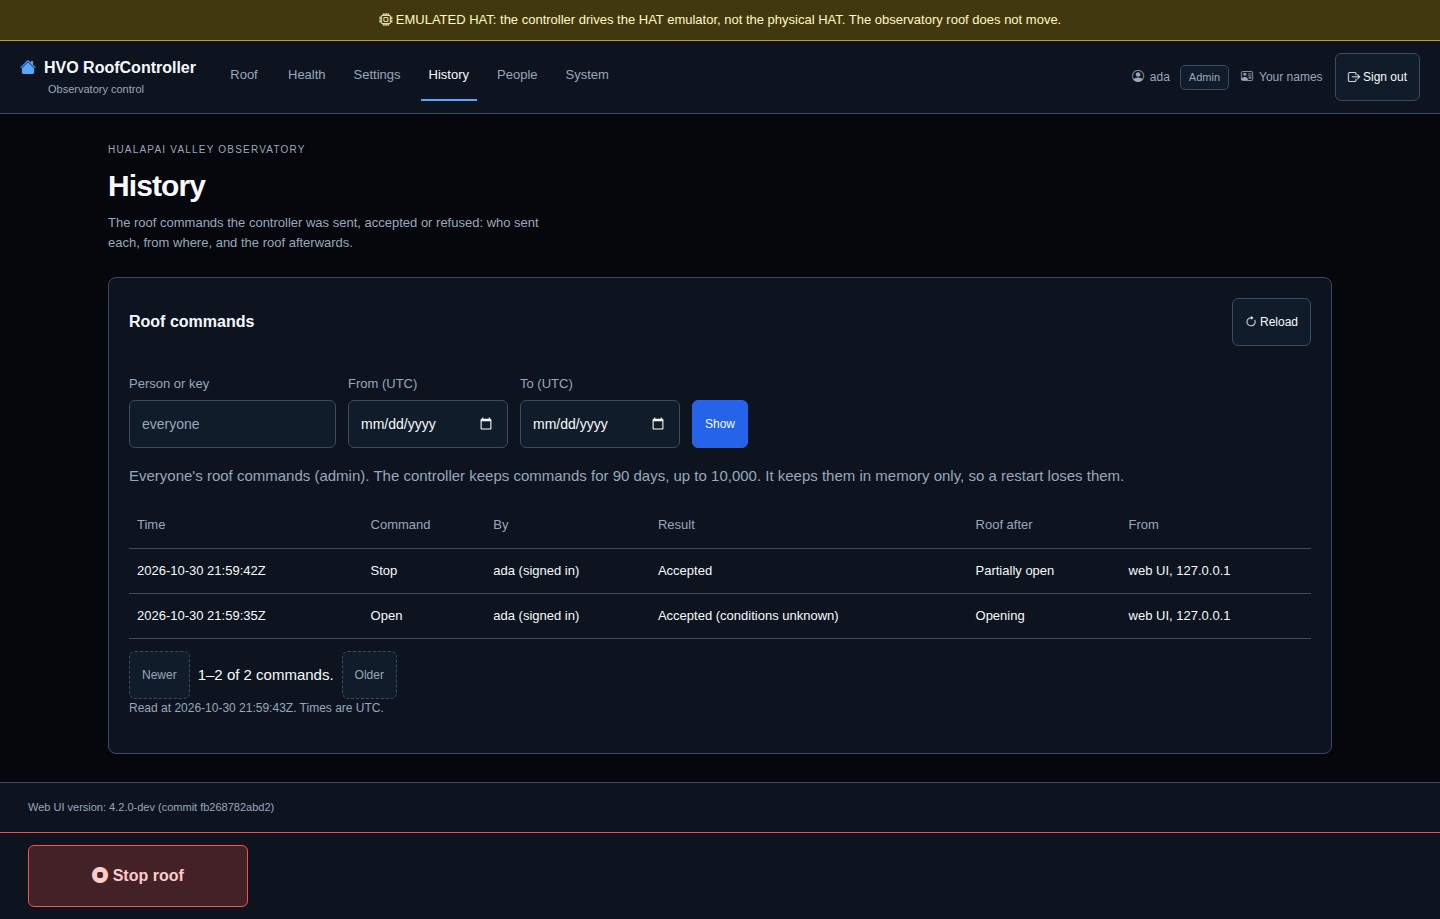
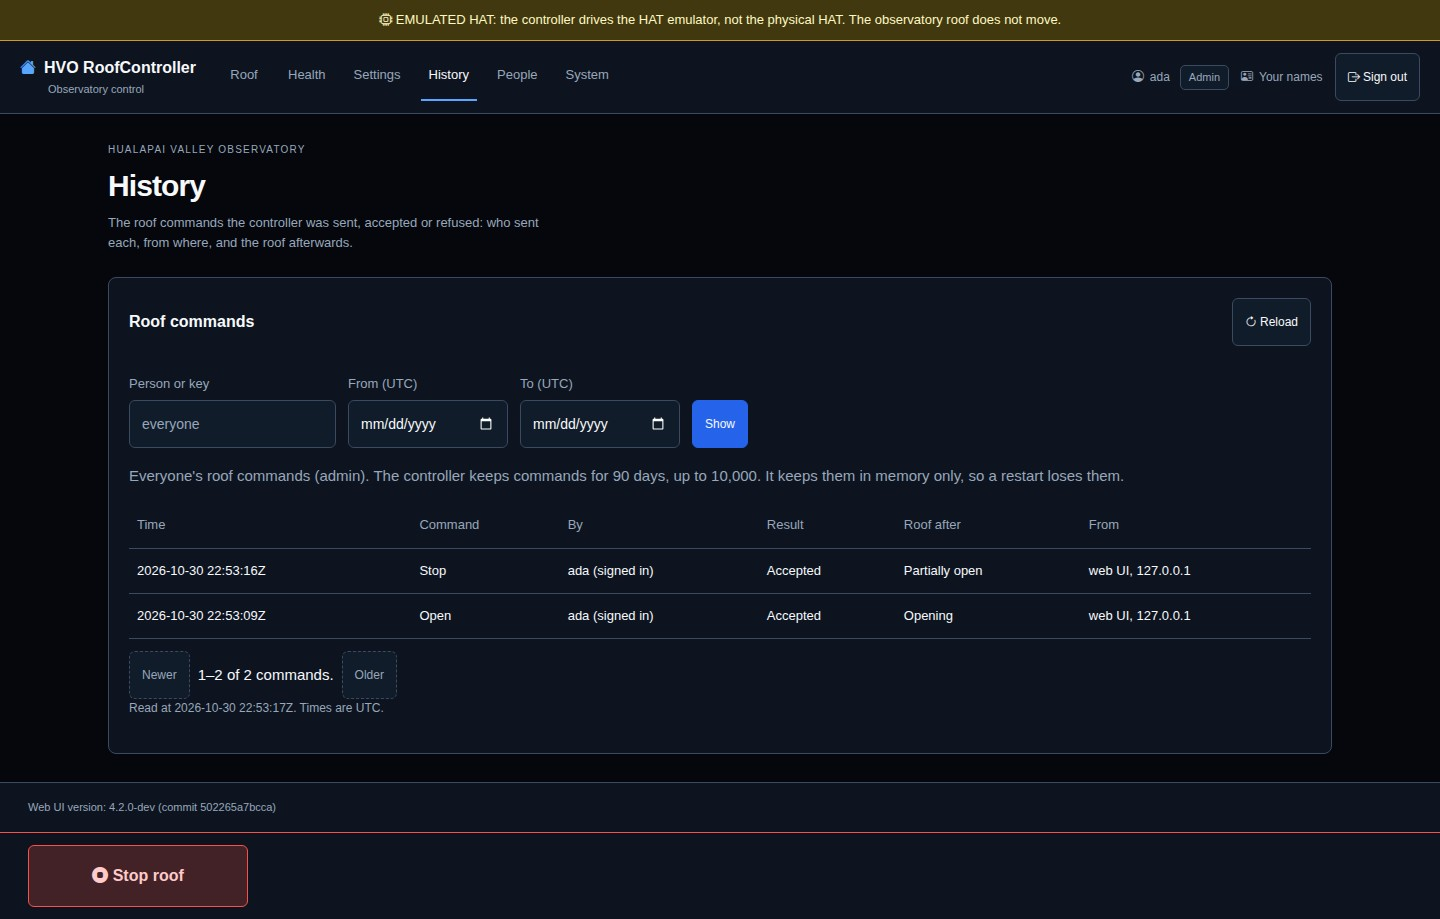
fix: omit the safety note on an Open accepted with the interlock Off and no sources
With RoofSafety:InterlockMode Off and no safety source configured, the
conditions are always Unknown, so every Open was recorded as "Accepted
(conditions unknown)", which says nothing. RoofSafetyOpenDecision now
decides what the command history notes (HistorySafetyState): no note for
an Open the controller accepted in that setup; Unsafe in any mode,
Unknown in Warn or Block or from a configured source, every override and
every refusal keep it. DoRoofOpen notes it once the controller answers.

Tests cover the whole matrix (storage and wording), the API end to end
with simulated sources (unsafe, unreadable, stale) and a controller
refusal, the web page and the CLI. Docs, the CHANGELOG entry and the
web History screenshot follow.

Closes #216
Part of #210

diff --git a/tests/HVO.RoofControllerV4.RPi.Tests/Controllers/RoofHistoryApiTests.cs b/tests/HVO.RoofControllerV4.RPi.Tests/Controllers/RoofHistoryApiTests.cs
@@ -4,10 +4,12 @@ using FluentAssertions;
 using HVO.Core.Results;
 using HVO.RoofControllerV4.Client;
 using HVO.RoofControllerV4.Common.Models;
+using HVO.RoofControllerV4.Common.Safety;
 using HVO.RoofControllerV4.RPi.Logic;
 using HVO.RoofControllerV4.RPi.Storage;
 using HVO.RoofControllerV4.RPi.Tests.Client;
 using HVO.RoofControllerV4.RPi.Tests.Security;
+using HVO.RoofControllerV4.Simulation.Safety;
 using HVO.RoofControllerV4.Web.Sessions;
 using Microsoft.Extensions.DependencyInjection;
 using Moq;
@@ -390,14 +392,60 @@ public sealed class RoofHistoryApiTests
             refused.SafetyOverride.Should().BeNull("Block takes no override");
         }
 
-        using var advising = RoofClientApiTests.CreateHost();
+        // A source that says unsafe: the interlock only advises, and the entry says what it found.
+        var mount = new SimulatedTelescopeParkSource("Main", isParked: false);
+        using var advising = RoofClientApiTests.CreateHost(configureServices: services => services.AddSingleton<ITelescopeParkSource>(mount));
         using var operatorClient = CreateClient(advising, new RoofApiKeyCredential(TestApiKeys.Operator));
+        await WaitUntilAsync(() => operatorClient.Roof.GetSafetyAsync().GetAwaiter().GetResult().State == RoofSafetyState.Unsafe, "the mount to be read");
         await operatorClient.Roof.OpenAsync();
 
         var accepted = (await operatorClient.Roof.GetHistoryAsync()).Entries.Single();
         accepted.Accepted.Should().BeTrue("the interlock is off by default");
-        accepted.SafetyState.Should().Be("Unknown");
+        accepted.SafetyState.Should().Be("Unsafe");
         accepted.SafetyOverride.Should().BeNull();
+        RoofHistoryText.DescribeResult(accepted).Should().Be("Accepted (conditions unsafe)");
+    }
+
+    [TestMethod]
+    public async Task AnOpenAcceptedWhileNothingWatchesTheConditions_HasNoSafetyNote_ButARefusalKeepsIt()
+    {
+        // The interlock Off (the default) and no safety source: the conditions are always Unknown, which says nothing (#216).
+        using var host = RoofClientApiTests.CreateHost();
+        using var operatorClient = CreateClient(host, new RoofApiKeyCredential(TestApiKeys.Operator));
+        (await operatorClient.Roof.GetSafetyAsync()).Should().Match<RoofSafetyStatus>(safety =>
+            safety.State == RoofSafetyState.Unknown && safety.InterlockMode == RoofSafetyInterlockMode.Off && safety.Sources.Count == 0);
+
+        await operatorClient.Roof.OpenAsync();
+        host.RoofService.Setup(service => service.Open()).Returns(Result<RoofControllerStatus>.Failure(
+            new RoofControllerException(RoofControllerErrorCode.FaultLatched, "A fault is latched (test).")));
+        await RoofClientApiTests.RefusedAsync(() => operatorClient.Roof.OpenAsync());
+
+        var entries = (await operatorClient.Roof.GetHistoryAsync()).Entries;
+        entries.Select(entry => (entry.Accepted, entry.Code, entry.SafetyState, entry.SafetyOverride)).Should().Equal(
+            (false, nameof(RoofControllerErrorCode.FaultLatched), "Unknown", null),
+            (true, null, null, null));
+        RoofHistoryText.DescribeResult(entries[0]).Should().Be("Refused [FaultLatched]");
+        RoofHistoryText.DescribeResult(entries[1]).Should().Be("Accepted");
+    }
+
+    [TestMethod]
+    [DataRow(SimulatedSourceBehaviour.Fails, false, "cannot be read")]
+    [DataRow(SimulatedSourceBehaviour.Answers, true, "is older than")]
+    public async Task AnOpenAcceptedWhileAConfiguredSourceIsUnknown_SaysSo(SimulatedSourceBehaviour behaviour, bool stale, string reason)
+    {
+        // The interlock Off, but a source is configured: one that cannot be read, or whose last reading is too old.
+        var weather = new SimulatedWeatherSafetySource("Cloud") { Behaviour = behaviour, ObservedUtc = stale ? DateTimeOffset.UtcNow.AddHours(-1) : null };
+        using var host = RoofClientApiTests.CreateHost(configureServices: services => services.AddSingleton<IWeatherSafetySource>(weather));
+        using var operatorClient = CreateClient(host, new RoofApiKeyCredential(TestApiKeys.Operator));
+        await WaitUntilAsync(
+            () => operatorClient.Roof.GetSafetyAsync().GetAwaiter().GetResult().Sources.Single().Reason.Contains(reason, StringComparison.Ordinal),
+            "the weather monitor to be read");
+
+        await operatorClient.Roof.OpenAsync();
+
+        var accepted = (await operatorClient.Roof.GetHistoryAsync()).Entries.Single();
+        accepted.SafetyState.Should().Be("Unknown");
+        RoofHistoryText.DescribeResult(accepted).Should().Be("Accepted (conditions unknown)");
     }
 
     private static async Task<RoofControllerClient> SignedInAsync(RoofApiTestHost host, string name)

diff --git a/tests/HVO.RoofControllerV4.RPi.Tests/Storage/RoofCommandHistoryTests.cs b/tests/HVO.RoofControllerV4.RPi.Tests/Storage/RoofCommandHistoryTests.cs
@@ -2,7 +2,9 @@ using System.Net;
 using System.Security.Claims;
 using System.Text.Json;
 using FluentAssertions;
+using HVO.RoofControllerV4.Client;
 using HVO.RoofControllerV4.Common.Models;
+using HVO.RoofControllerV4.RPi.Safety;
 using HVO.RoofControllerV4.RPi.Security;
 using HVO.RoofControllerV4.RPi.Security.Identity;
 using HVO.RoofControllerV4.RPi.Storage;
@@ -425,6 +427,43 @@ public sealed class RoofCommandHistoryTests
         history.Describe(safe, RoofHistoryCommand.Open, null, null).Should().Match<RoofCommandHistoryEntry>(entry =>
             entry.SafetyState == null && entry.SafetyOverride == null);
         history.Describe(Context(user, IPAddress.Loopback, null), RoofHistoryCommand.Close, null, null).SafetyState.Should().BeNull();
+    }
+
+    [TestMethod]
+    // Nothing watches the conditions (the interlock Off, no source): an accepted Open has no note (#216); a refusal keeps it.
+    [DataRow(RoofSafetyInterlockMode.Off, RoofSafetyState.Unknown, false, false, true, null, "Accepted")]
+    [DataRow(RoofSafetyInterlockMode.Off, RoofSafetyState.Unknown, false, false, false, "Unknown", "Refused [FaultLatched]")]
+    // A configured source that cannot be read or is stale, an unsafe one, in any mode.
+    [DataRow(RoofSafetyInterlockMode.Off, RoofSafetyState.Unknown, true, false, true, "Unknown", "Accepted (conditions unknown)")]
+    [DataRow(RoofSafetyInterlockMode.Off, RoofSafetyState.Unsafe, true, false, true, "Unsafe", "Accepted (conditions unsafe)")]
+    [DataRow(RoofSafetyInterlockMode.Warn, RoofSafetyState.Unsafe, true, true, true, "Unsafe", "Accepted (safety override, conditions unsafe)")]
+    [DataRow(RoofSafetyInterlockMode.Block, RoofSafetyState.Unsafe, true, false, false, "Unsafe", "Refused [FaultLatched]")]
+    // Unknown in Warn or Block, with no source: an override, and a refusal, keep it.
+    [DataRow(RoofSafetyInterlockMode.Warn, RoofSafetyState.Unknown, false, true, true, "Unknown", "Accepted (safety override, conditions unknown)")]
+    [DataRow(RoofSafetyInterlockMode.Warn, RoofSafetyState.Unknown, false, false, false, "Unknown", "Refused [FaultLatched]")]
+    [DataRow(RoofSafetyInterlockMode.Block, RoofSafetyState.Unknown, false, false, false, "Unknown", "Refused [FaultLatched]")]
+    // Safe: never a note.
+    [DataRow(RoofSafetyInterlockMode.Off, RoofSafetyState.Safe, true, false, true, null, "Accepted")]
+    [DataRow(RoofSafetyInterlockMode.Warn, RoofSafetyState.Safe, true, false, true, null, "Accepted")]
+    public void AnOpensEntry_NotesTheConditions_UnlessNothingWatchesThem(
+        RoofSafetyInterlockMode mode, RoofSafetyState state, bool sourceConfigured, bool overridden, bool accepted, string? expected, string result)
+    {
+        using var history = Create(new ManualTimeProvider(Start));
+        var refusal = new ProblemDetails { Detail = "A fault is latched." };
+        refusal.Extensions[RoofControllerApiContract.ProblemCodeExtension] = nameof(RoofControllerErrorCode.FaultLatched);
+        var decision = new RoofSafetyOpenDecision(null, "ada", new RoofSafetyStatus
+        {
+            State = state,
+            InterlockMode = mode,
+            Sources = sourceConfigured ? [new RoofSafetySourceStatus { Name = "Main", Kind = RoofSafetySourceKind.TelescopePark, State = state }] : []
+        }, overridden);
+        var context = Context(Session("ada", RoofCredentialKind.Session, RoofControllerApiContract.OperatorRole), IPAddress.Loopback, null);
+
+        RoofCommandHistory.NoteSafety(context, decision.HistorySafetyState(accepted), decision.Overridden);
+        var entry = history.Describe(context, RoofHistoryCommand.Open, accepted ? Snapshot(RoofControllerStatus.Opening) : null, accepted ? null : refusal);
+
+        entry.SafetyState.Should().Be(expected);
+        RoofHistoryText.DescribeResult(entry).Should().Be(result);
     }
 
     [TestMethod]

diff --git a/src/HVO.RoofControllerV4.RPi/Controllers/RoofController.cs b/src/HVO.RoofControllerV4.RPi/Controllers/RoofController.cs
@@ -109,22 +109,23 @@ namespace HVO.RoofControllerV4.RPi.Controllers
         public async Task<ActionResult<RoofStatusResponse>> DoRoofOpen([FromQuery] bool overrideSafety = false)
         {
             var safety = await _safetyInterlock.CheckOpenAsync(User, HttpContext, overrideSafety).ConfigureAwait(false);
-
-            // The command history shows the conditions an Open was sent in when they were not Safe, and an override (#206).
-            RoofCommandHistory.NoteSafety(
-                HttpContext,
-                safety.Safety.State == RoofSafetyState.Safe ? null : safety.Safety.State.ToString(),
-                safety.Overridden);
             return RunCommand("open", () =>
             {
+                Result<RoofControllerStatus> result;
                 if (safety.Refusal is { } refusal)
                 {
-                    return Result<RoofControllerStatus>.Failure(refusal);
+                    result = Result<RoofControllerStatus>.Failure(refusal);
+                }
+                else
+                {
+                    // An override is audited only once the controller's own checks have accepted Open.
+                    result = _roofController.Open();
+                    _safetyInterlock.ReportOutcome(safety, result.IsSuccessful ? null : result.Error);
                 }
 
-                // An override is audited only once the controller's own checks have accepted Open.
-                var result = _roofController.Open();
-                _safetyInterlock.ReportOutcome(safety, result.IsSuccessful ? null : result.Error);
+                // The command history shows the conditions an Open was sent in when they were not Safe, and an override
+                // (#206); not the Unknown of an Open accepted while nothing watches the conditions (#216).
+                RoofCommandHistory.NoteSafety(HttpContext, safety.HistorySafetyState(result.IsSuccessful), safety.Overridden);
                 return result;
             });
         }

diff --git a/src/HVO.RoofControllerV4.RPi/Safety/RoofSafetyInterlock.cs b/src/HVO.RoofControllerV4.RPi/Safety/RoofSafetyInterlock.cs
@@ -12,7 +12,22 @@ namespace HVO.RoofControllerV4.RPi.Safety;
 /// <param name="Caller">Who asked, as audit lines name them.</param>
 /// <param name="Safety">The safety conditions the decision was made on.</param>
 /// <param name="Overridden">True when Open goes on only because the caller overrode the conditions (Warn mode).</param>
-public sealed record RoofSafetyOpenDecision(RoofControllerException? Refusal, string Caller, RoofSafetyStatus Safety, bool Overridden);
+public sealed record RoofSafetyOpenDecision(RoofControllerException? Refusal, string Caller, RoofSafetyStatus Safety, bool Overridden)
+{
+    /// <summary>
+    /// The conditions the command history (#206) notes for this Open: the state when it was not Safe, null when it was.
+    /// Null as well for an Open the controller accepted while nothing watches the conditions (the interlock Off, no
+    /// safety source configured, no override), whose Unknown says nothing (#216). Unsafe, Unknown in another mode or from
+    /// a configured source, an override and every refusal keep the state.
+    /// </summary>
+    /// <param name="accepted">True when the controller accepted Open.</param>
+    public string? HistorySafetyState(bool accepted)
+        => Safety.State == RoofSafetyState.Safe
+            || (accepted && !Overridden
+                && Safety is { State: RoofSafetyState.Unknown, InterlockMode: RoofSafetyInterlockMode.Off, Sources.Count: 0 })
+            ? null
+            : Safety.State.ToString();
+}
 
 /// <summary>
 /// The safety conditions' part in Open (<see cref="RoofSafetyOptions.InterlockMode"/>): Off reports and logs, Warn

diff --git a/tests/HVO.RoofControllerV4.RPi.Tests/Client/RoofHistoryClientTests.cs b/tests/HVO.RoofControllerV4.RPi.Tests/Client/RoofHistoryClientTests.cs
@@ -102,8 +102,12 @@ public sealed class RoofHistoryClientTests
         RoofHistoryText.DescribeResult(Entry()).Should().Be("Accepted");
         RoofHistoryText.DescribeResult(Entry() with { Accepted = false, Code = "FaultLatched" }).Should().Be("Refused [FaultLatched]");
         RoofHistoryText.DescribeResult(Entry() with { Accepted = false }).Should().Be("Refused");
+        // An Open with no safety note (Safe, or nothing watches the conditions: #216) is plain Accepted, as above.
         RoofHistoryText.DescribeResult(Entry() with { SafetyState = "Unsafe", SafetyOverride = true }).Should().Be("Accepted (safety override, conditions unsafe)");
+        RoofHistoryText.DescribeResult(Entry() with { SafetyState = "Unknown", SafetyOverride = true }).Should().Be("Accepted (safety override, conditions unknown)");
+        RoofHistoryText.DescribeResult(Entry() with { SafetyState = "Unsafe" }).Should().Be("Accepted (conditions unsafe)");
         RoofHistoryText.DescribeResult(Entry() with { SafetyState = "Unknown" }).Should().Be("Accepted (conditions unknown)");
+        RoofHistoryText.DescribeResult(Entry() with { Accepted = false, Code = "FaultLatched", SafetyState = "Unknown" }).Should().Be("Refused [FaultLatched]");
         RoofHistoryText.DescribeResult(Entry() with { Accepted = false, Code = "SafetyOverrideRequired", SafetyState = "Unsafe" })
             .Should().Be("Refused [SafetyOverrideRequired]");
         RoofHistoryText.DescribeOutcome(Entry()).Should().Be("Opening");

diff --git a/tests/HVO.RoofControllerV4.RPi.Tests/Cli/RoofCliHistoryCommandTests.cs b/tests/HVO.RoofControllerV4.RPi.Tests/Cli/RoofCliHistoryCommandTests.cs
@@ -30,7 +30,7 @@ public sealed class RoofCliHistoryCommandTests
         lines[0].Should().Be("Everyone's roof commands (admin).");
         lines[1].Should().MatchRegex("^TIME +COMMAND +BY +RESULT +ROOF AFTER +FROM$");
         lines[2].Should().MatchRegex(@"^\d{4}-\d\d-\d\d \d\d:\d\d:\d\dZ +Stop +test-viewer \(API key\) +Accepted +Closed +");
-        lines[3].Should().MatchRegex(@"Open +test-operator \(API key\) +Accepted \(conditions unknown\) +Closed +", "no safety source is configured, so the conditions are not known");
+        lines[3].Should().MatchRegex(@"Open +test-operator \(API key\) +Accepted +Closed +", "with the interlock off and no safety source, the conditions are not noted (#216)");
         lines[4].Should().Be("1–2 of 2 commands.");
         lines[5].Should().Be("The controller keeps commands for 90 days, up to 10,000. It keeps them in memory only, so a restart loses them.");
     }

diff --git a/src/HVO.RoofControllerV4.RPi/Storage/RoofCommandHistory.cs b/src/HVO.RoofControllerV4.RPi/Storage/RoofCommandHistory.cs
@@ -501,8 +501,10 @@ public sealed class RoofCommandHistory : BackgroundService
 
     /// <summary>
     /// Notes on <paramref name="context"/> what the safety interlock (#207) decided for an Open, for the entry
-    /// <see cref="Describe"/> makes of it: the conditions when they were not Safe (null when they were), and whether the
-    /// caller overrode them. An override is recorded only on an Open the controller then accepted.
+    /// <see cref="Describe"/> makes of it: the conditions to record
+    /// (<see cref="HVO.RoofControllerV4.RPi.Safety.RoofSafetyOpenDecision.HistorySafetyState"/>: null when they were Safe,
+    /// or nothing watches them), and whether the caller overrode them. An override is recorded only on an Open the
+    /// controller then accepted.
     /// </summary>
     public static void NoteSafety(HttpContext context, string? notSafeState, bool overridden)
     {

diff --git a/src/HVO.RoofControllerV4.Common/Models/RoofCommandHistoryContract.cs b/src/HVO.RoofControllerV4.Common/Models/RoofCommandHistoryContract.cs
@@ -123,7 +123,8 @@ public sealed record RoofCommandHistoryEntry
 
     /// <summary>
     /// For an Open sent while the observatory's safety conditions (#207) were not Safe: what the safety interlock found
-    /// them to be (for example <c>Unsafe</c> or <c>Unknown</c>); null otherwise, and for every other command.
+    /// them to be (for example <c>Unsafe</c> or <c>Unknown</c>); null otherwise, for an Open accepted while nothing
+    /// watches the conditions (the interlock Off and no safety source configured, #216), and for every other command.
     /// </summary>
     public string? SafetyState { get; init; }
 

diff --git a/tests/HVO.RoofControllerV4.RPi.Tests/Web/HistoryPageTests.cs b/tests/HVO.RoofControllerV4.RPi.Tests/Web/HistoryPageTests.cs
@@ -36,7 +36,7 @@ public sealed class HistoryPageTests
             new[]
             {
                 new[] { "2026-09-29 12:00:00Z", "Stop", "ada (signed in)", "Accepted", "Closed" },
-                new[] { "2026-09-29 12:00:00Z", "Open", "olive (signed in)", "Accepted (conditions unknown)", "Closed" }
+                new[] { "2026-09-29 12:00:00Z", "Open", "olive (signed in)", "Accepted", "Closed" }
             },
             options => options.WithStrictOrdering());
         cut.Find("[data-testid=history-range]").TextContent.Should().Be("1–2 of 2 commands.");

diff --git a/docs/security.md b/docs/security.md
@@ -455,8 +455,11 @@ session, the person an API key said it acted for (`X-On-Behalf-Of`, shown, never
 the request's `User-Agent` names (not verified; the client library sends `<program>/<version>`), the result with the
 refusal's code and explanation, and the roof's status, stop reason and fault latch afterwards. An Open sent while the
 observatory's safety conditions are not Safe also has them (`safetyState`), and `safetyOverride` when the controller
-accepted it only because the caller overrode them; an Open the safety interlock refused is a refusal with its code. A
-request refused before it reaches the roof (no credential, or a role too low) is not a command and is not recorded.
+accepted it only because the caller overrode them; an Open the safety interlock refused is a refusal with its code. An
+Open accepted while nothing watches the conditions (`RoofSafety:InterlockMode` `Off` and no safety source configured)
+has no `safetyState`: its Unknown says nothing (#216). Unsafe, Unknown from a configured source or in `Warn` or
+`Block`, an override and a refusal keep it. A request refused before it reaches the roof (no credential, or a role too
+low) is not a command and is not recorded.
 
 - **Identifiers, never names.** The history matches who sent a command by an identifier, never by a name alone:
   `principal:<id>` for a person the identity store gives a principal ID (schema 2 and later, and every Linux principal),

diff --git a/CHANGELOG.md b/CHANGELOG.md
@@ -17,8 +17,10 @@ and this project adheres to [Semantic Versioning](https://semver.org/).
   matched by an identifier (a person's principal ID, or their name and creation; a key's ID), never by a name alone.
   Stop is never limited; anonymous Stops from one source are one entry with a count, under a cap of their own. An Open
   sent while the safety conditions are not Safe (#207) records them, with the safety interlock's refusals
-  (`SafetyOverrideRequired`, `SafetyInterlockActive`) and whether it went ahead on a safety override. It keeps
-  them in `command-history.jsonl` next to the identity store (so backups hold it), or at
+  (`SafetyOverrideRequired`, `SafetyInterlockActive`) and whether it went ahead on a safety override; an Open accepted
+  with the interlock `Off` and no safety source configured records none, so it shows plain "Accepted" rather than
+  "Accepted (conditions unknown)" (#216). It keeps them in `command-history.jsonl` next to the identity store (so
+  backups hold it), or at
   `RoofCommandHistory:StorePath`, for 90 days and up to 10,000 commands (`RoofCommandHistory:Retention`,
   `RoofCommandHistory:MaximumEntries`). `GET api/v4.0/RoofControl/History` pages them, newest first, with `user`,
   `principalId`, `from`, `to`, `skip` and `take`: an admin reads everyone's, anyone else (a kiosk PIN session included)

diff --git a/docs/web.md b/docs/web.md
@@ -194,9 +194,10 @@ from the web UI, the address of the person's browser, which the web UI names to 
 key's name (whoever is named so now); anyone else reads only their own, matched by their identifier, never by name. An
 Open sent while the [safety conditions](safety-service.md) were not safe says so, such as
 `Accepted (safety override, conditions unsafe)`, and one the safety interlock refused shows its code, such as
-`Refused [SafetyOverrideRequired]`. **From** and **To** pick whole UTC days. Newer and Older
-page through it, 25 at a time. The controller keeps commands for 90 days, up to 10,000, and the page says when it keeps
-them in memory only.
+`Refused [SafetyOverrideRequired]`. With the interlock off and no safety source configured, an accepted Open is plain
+`Accepted`: the conditions are always unknown there, so saying so tells nothing. **From** and **To** pick whole UTC
+days. Newer and Older page through it, 25 at a time. The controller keeps commands for 90 days, up to 10,000, and the
+page says when it keeps them in memory only.
 
 ### People
 
